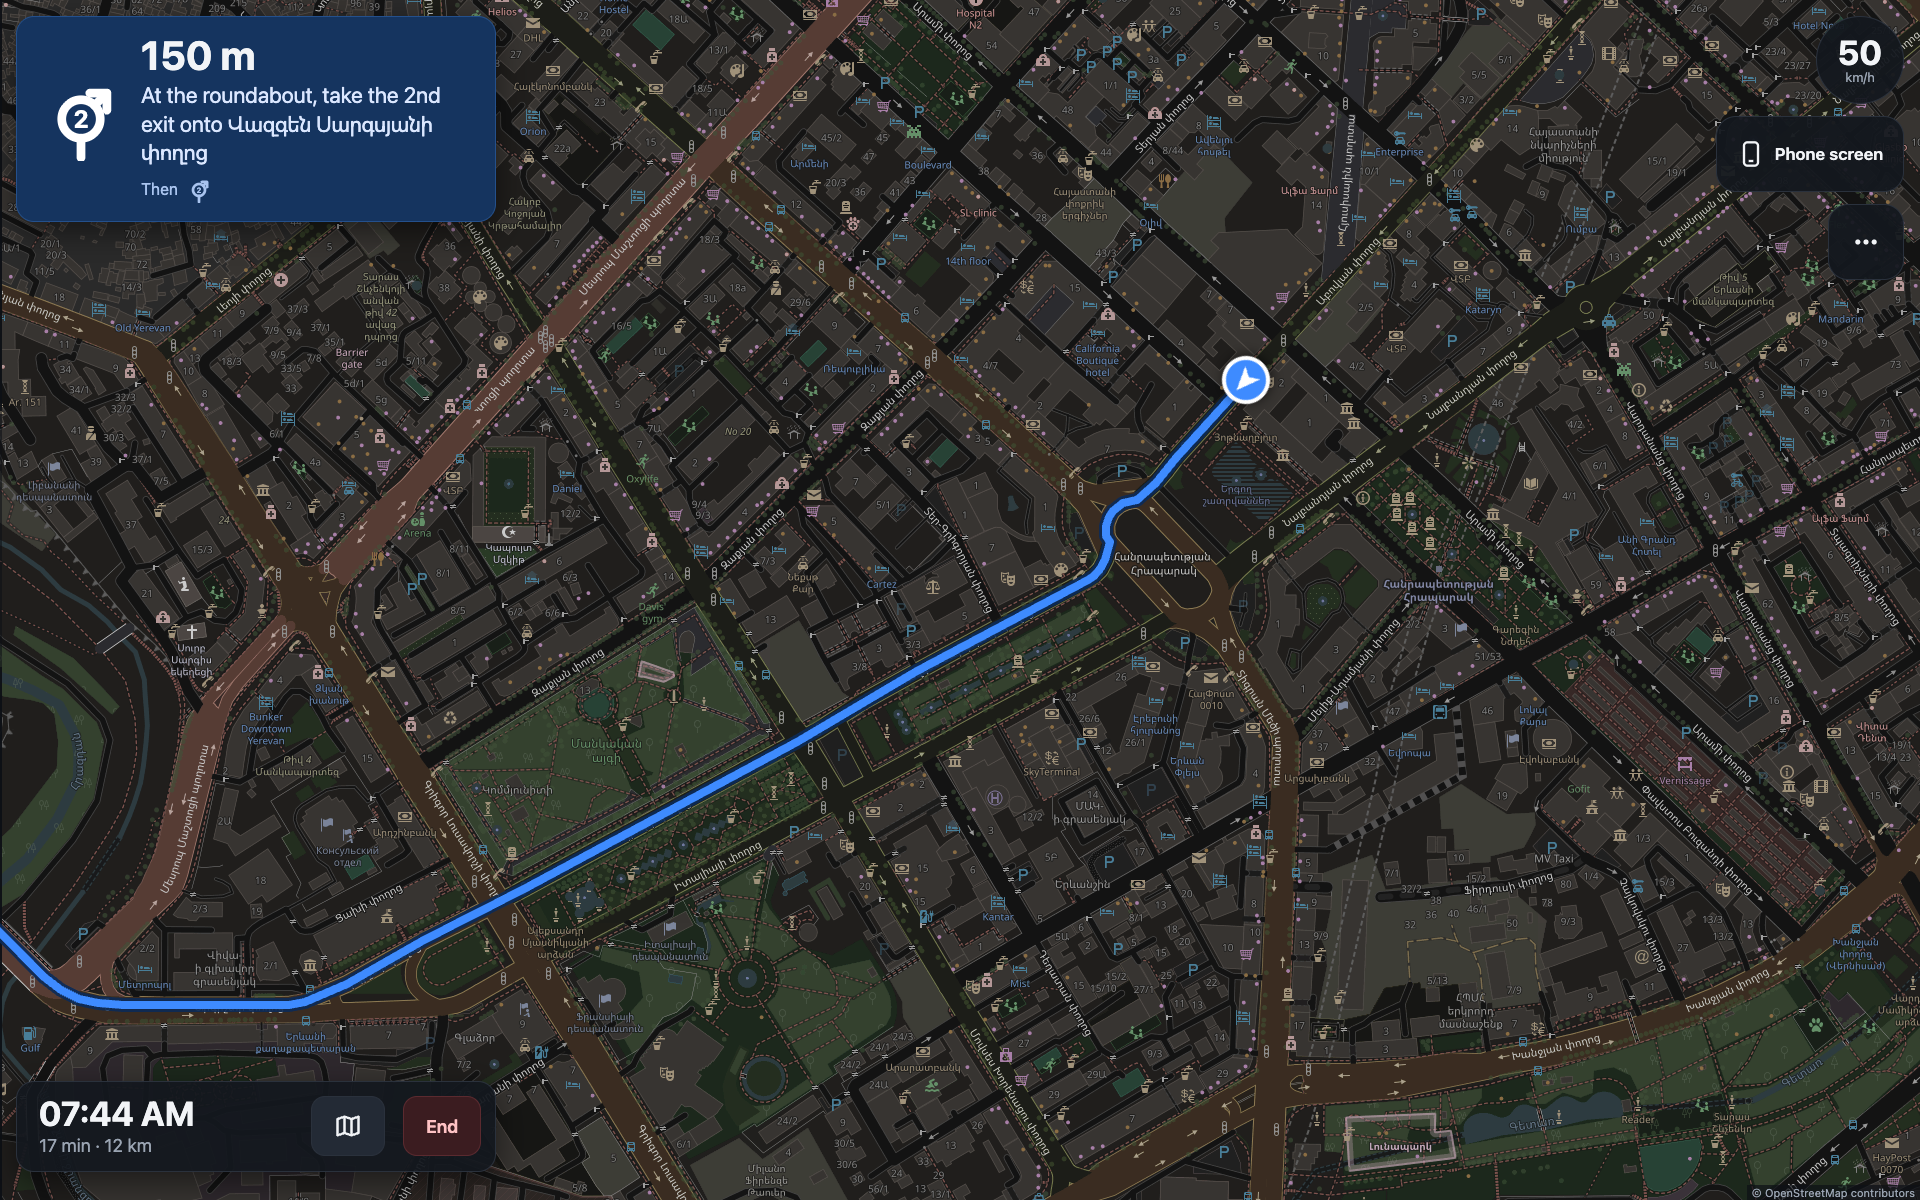
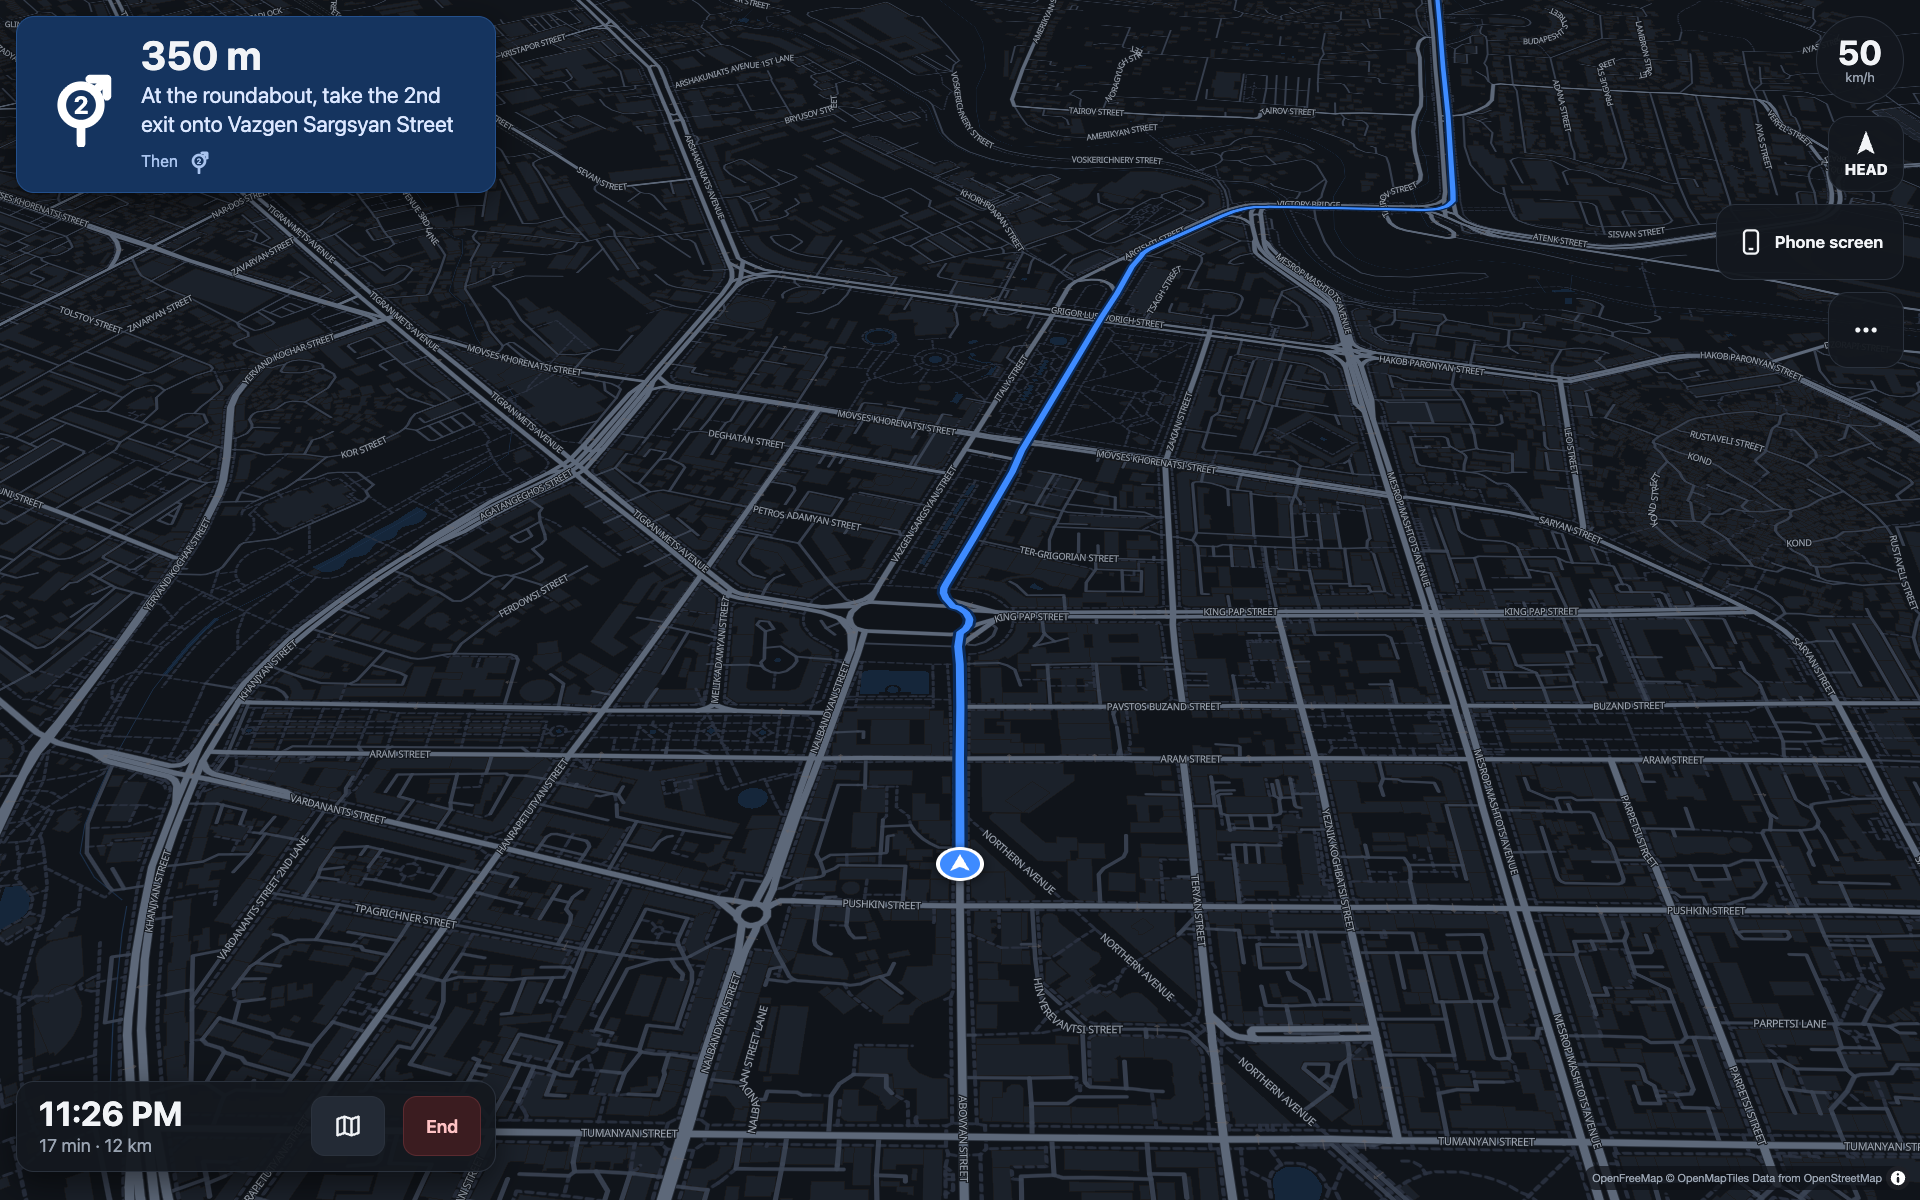
Readable street names, English map labels, new store screenshots
- Route instructions and voice transliterate Armenian street names and
  translate the street word ('Վազգեն Սարգսյանի փողոց' → 'Vazgen Sargsyan
  Street'), so an English voice can read them.
- Vector map street labels show the Latin name only.
- Banner and trip bar are filled from the route before the first GPS fix.
- Runways tinted in the night style.
- design/shoot2.mjs (step-based capture) and five new App Store screenshots.

diff --git a/docs/car/index.html b/docs/car/index.html
@@ -325,6 +325,7 @@ function vectorMap() {
     highway_path: ['line-color', '#2a3140'], highway_minor: ['line-color', '#3a4353'],
     highway_major_casing: ['line-color', '#262c36'], highway_major_inner: ['line-color', '#5d6879'], highway_major_subtle: ['line-color', '#4a5465'],
     highway_motorway_casing: ['line-color', '#3a2f1c'], highway_motorway_inner: ['line-color', '#9a7b3f'], highway_motorway_subtle: ['line-color', '#6d5a33'],
+    'aeroway-runway': ['line-color', '#2c3340'], 'aeroway-taxiway': ['line-color', '#232933'], 'aeroway-area': ['fill-color', '#161b22'],
     railway: ['line-color', '#343a44'], railway_minor: ['line-color', '#2c323b'], railway_transit: ['line-color', '#2c323b'],
     highway_name_other: ['text-color', '#b9c2cf'], highway_name_motorway: ['text-color', '#e0cf9f'], water_name: ['text-color', '#6f8fb5'],
   };
@@ -339,7 +340,15 @@ function vectorMap() {
       try { map.setPaintProperty(l.id, 'text-halo-color', '#10141a'); map.setPaintProperty(l.id, 'text-halo-width', 1.4); } catch {}
     }
   }
-  map.on('style.load', () => { tuneNight(); addOverlays(); });
+  // Street labels: the Latin name alone; "ARAM STREET Արամ փողոց" side by side is unreadable at speed.
+  function latinStreetLabels() {
+    for (const id of ['highway_name_other', 'highway_name_major', 'road_label', 'highway-name-minor', 'highway-name-major']) {
+      if (map.getLayer(id)) try {
+        map.setLayoutProperty(id, 'text-field', ['coalesce', ['get', 'name:latin'], ['get', 'name_en'], ['get', 'name']]);
+      } catch {}
+    }
+  }
+  map.on('style.load', () => { tuneNight(); latinStreetLabels(); addOverlays(); });
 
   const carEl = document.createElement('div');
   carEl.className = 'car gl'; carEl.innerHTML = CAR_SVG;
@@ -914,6 +923,14 @@ function setRoute(r, d) {
   show($('search'), false); show($('banner'), true); show($('trip'), true);
   if (sim) sim.along = 0;
   if (pos) navUpdate();
+  else {
+    // No GPS fix yet: show the first turn and the whole trip until one arrives.
+    let j = 1;
+    while (j < r.steps.length - 1 && !important(r.steps[j])) j++;
+    const first = r.steps[Math.min(j, r.steps.length - 1)];
+    renderBanner(first, first.start, null);
+    renderTrip(r.total, r.duration);
+  }
 }
 
 function endRoute() {
@@ -1035,6 +1052,29 @@ function renderTrip(remain, secs) {
 }
 
 // ---------------------------------------------------------------- instructions
+/** Armenian → readable Latin for street names in instructions and speech ("Վազգեն Սարգսյանի փողոց" → "Vazgen Sargsyani Poghots"). */
+const HY_READ = { 'ա':'a','բ':'b','գ':'g','դ':'d','ե':'e','զ':'z','է':'e','ը':'y','թ':'t','ժ':'zh','ի':'i','լ':'l','խ':'kh','ծ':'ts',
+  'կ':'k','հ':'h','ձ':'dz','ղ':'gh','ճ':'ch','մ':'m','յ':'y','ն':'n','շ':'sh','ո':'o','չ':'ch','պ':'p','ջ':'j','ռ':'r','ս':'s',
+  'վ':'v','տ':'t','ր':'r','ց':'ts','ւ':'v','փ':'p','ք':'k','և':'ev','օ':'o','ֆ':'f' };
+const HY_TYPES = { 'փողոց': 'Street', 'պողոտա': 'Avenue', 'խճուղի': 'Highway', 'մայրուղի': 'Highway', 'նրբանցք': 'Lane',
+  'հրապարակ': 'Square', 'թաղամաս': 'District', 'փակուղի': 'Dead End', 'կամուրջ': 'Bridge', 'զբոսայգի': 'Park' };
+function readable(name) {
+  if (!name || !/[\u0531-\u0587]/.test(name)) return name;
+  // "Սարգսյանի փողոց" is "Sargsyan's street": drop the possessive -ի and translate the street word.
+  const parts = name.replace(/[\u200b-\u200f]/g, '').trim().split(/\s+/);
+  const type = HY_TYPES[parts[parts.length - 1].toLowerCase()];
+  if (type) {
+    parts.pop();
+    // Not for "Երևան-Գյումրի մայրուղի": a road between two towns, and Gyumri really ends in -ի.
+    if (parts.length && !parts[parts.length - 1].includes('-')) parts[parts.length - 1] = parts[parts.length - 1].replace(/ի$/, '');
+  }
+  return parts.join(' ').split(/(\s+|-)/).map(w => {
+    const lower = w.toLowerCase().replace(/ու/g, '\u0000').replace(/^ե/, 'ye').replace(/^ո(?!\u0000)/, 'vo');
+    const latin = lower.replace(/[\u0561-\u0587]/g, ch => HY_READ[ch] ?? ch).replace(/\u0000/g, 'u');
+    return latin.charAt(0).toUpperCase() + latin.slice(1);
+  }).join('') + (type ? ' ' + type : '');
+}
+
 const ordinal = n => n + (['th', 'st', 'nd', 'rd'][(n % 100 - 20) % 10] || ['th', 'st', 'nd', 'rd'][n % 100] || 'th');
 function side(mod) { return mod.includes('left') ? 'left' : mod.includes('right') ? 'right' : 'straight'; }
 function turnWord(mod) {
@@ -1045,7 +1085,7 @@ function turnWord(mod) {
 function compass(b) { return ['north', 'northeast', 'east', 'southeast', 'south', 'southwest', 'west', 'northwest'][Math.round(b / 45) % 8]; }
 
 function instruction(s) {
-  const road = s.name || s.ref;
+  const road = readable(s.name) || s.ref;
   const onto = road ? ` onto ${road}` : '';
   switch (s.type) {
     case 'depart': return `Head ${compass(s.bearingAfter || 0)}` + (road ? ` on ${road}` : '');

diff --git a/design/make_screenshots.py b/design/make_screenshots.py
@@ -87,19 +87,28 @@ def car_slide(name, raw, title, sub, callouts, labels):
 
 BANNER, TRIP = (16, 16, 496, 222), (16, 1080, 496, 1172)
 car_slide("1-navigation", "nav.png", "Turn-by-turn on your car's big screen",
-          "Your iPhone's GPS drives a live map in the car's browser.",
-          [(BANNER, 1000), (TRIP, 1000)], ["Voice prompts", "Rerouting", "ETA"])
-car_slide("2-route", "overview.png", "See the whole route, then just drive",
+          "A heading-up 3D map with voice prompts, using the car's own GPS.",
+          [(BANNER, 1000), (TRIP, 1000)], ["Heading-up", "Voice", "Rerouting", "ETA"])
+car_slide("2-search", "search.png", "Finds places the way you type them",
+          "Type in English, Russian or Armenian: kaskad, cascade or Каскад all find the Cascade.",
+          [((16, 16, 496, 700), 900)], ["Places", "Streets", "Addresses"])
+car_slide("3-route", "overview.png", "See the whole route, then just drive",
           "Arrival time, distance and the next turn, always in view.",
           [((16, 16, 496, 138), 1000), (TRIP, 1000)], ["Route overview", "Night map"])
-car_slide("3-search", "search.png", "Search anywhere, nearby first",
-          "Places and addresses, straight from the car screen.",
-          [((16, 16, 496, 330), 1000)], ["Places", "Addresses", "Coordinates"])
 
-# The iPhone app itself, in a phone-shaped frame.
+# The iPhone app: mirroring.
 img = background()
-y = headline(img, "No cloud. No account.", "Turn on Personal Hotspot and open one bookmark in the car. Mirror your whole screen when you want live traffic.")
+y = headline(img, "Live traffic? Mirror your iPhone", "Use Yandex, Google Maps or Waze on the car screen. Pair once with a code.")
 phone = Image.open(f"{RAW}/phone.png").convert("RGB").crop((0, 0, 1320, 2380))
 place(img, phone, 1040, y + 90, 100, bezel=28)
-img.save(f"{OUT}/4-iphone.png")
+img.save(f"{OUT}/4-mirror.png")
+
+car_slide("5-chargers", "chargers.png", "EV chargers on the map",
+          "Tap a charger to see its connectors and drive there.",
+          [((380, 150, 1540, 900), 1100)], ["Free", "No account", "No ads"])
+
+# 6.5" copies (1284×2778): App Store Connect asks for this size too.
+os.makedirs("design/appstore-6.5", exist_ok=True)
+for f in sorted(os.listdir(OUT)):
+    Image.open(f"{OUT}/{f}").convert("RGB").resize((1284, 2790), Image.LANCZOS).crop((0, 6, 1284, 2784)).save(f"design/appstore-6.5/{f}")
 print(sorted(os.listdir(OUT)))
